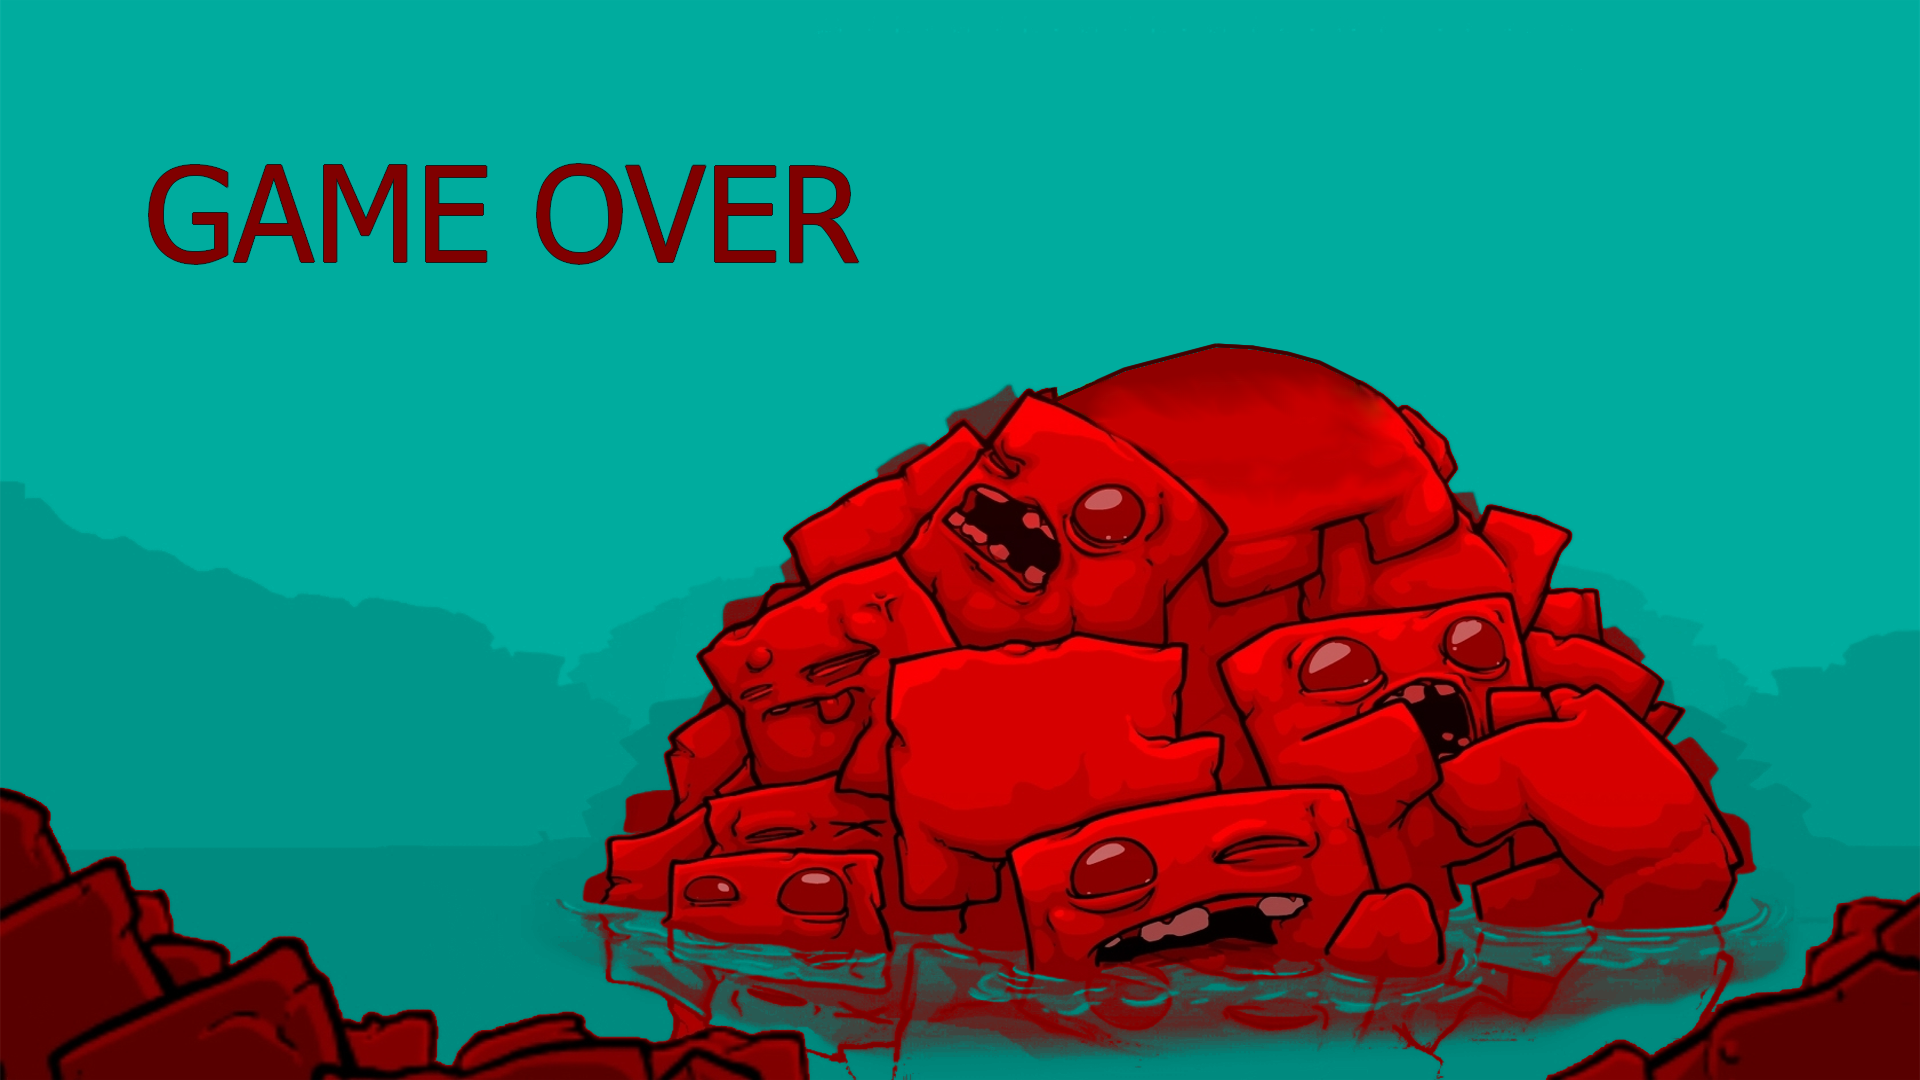
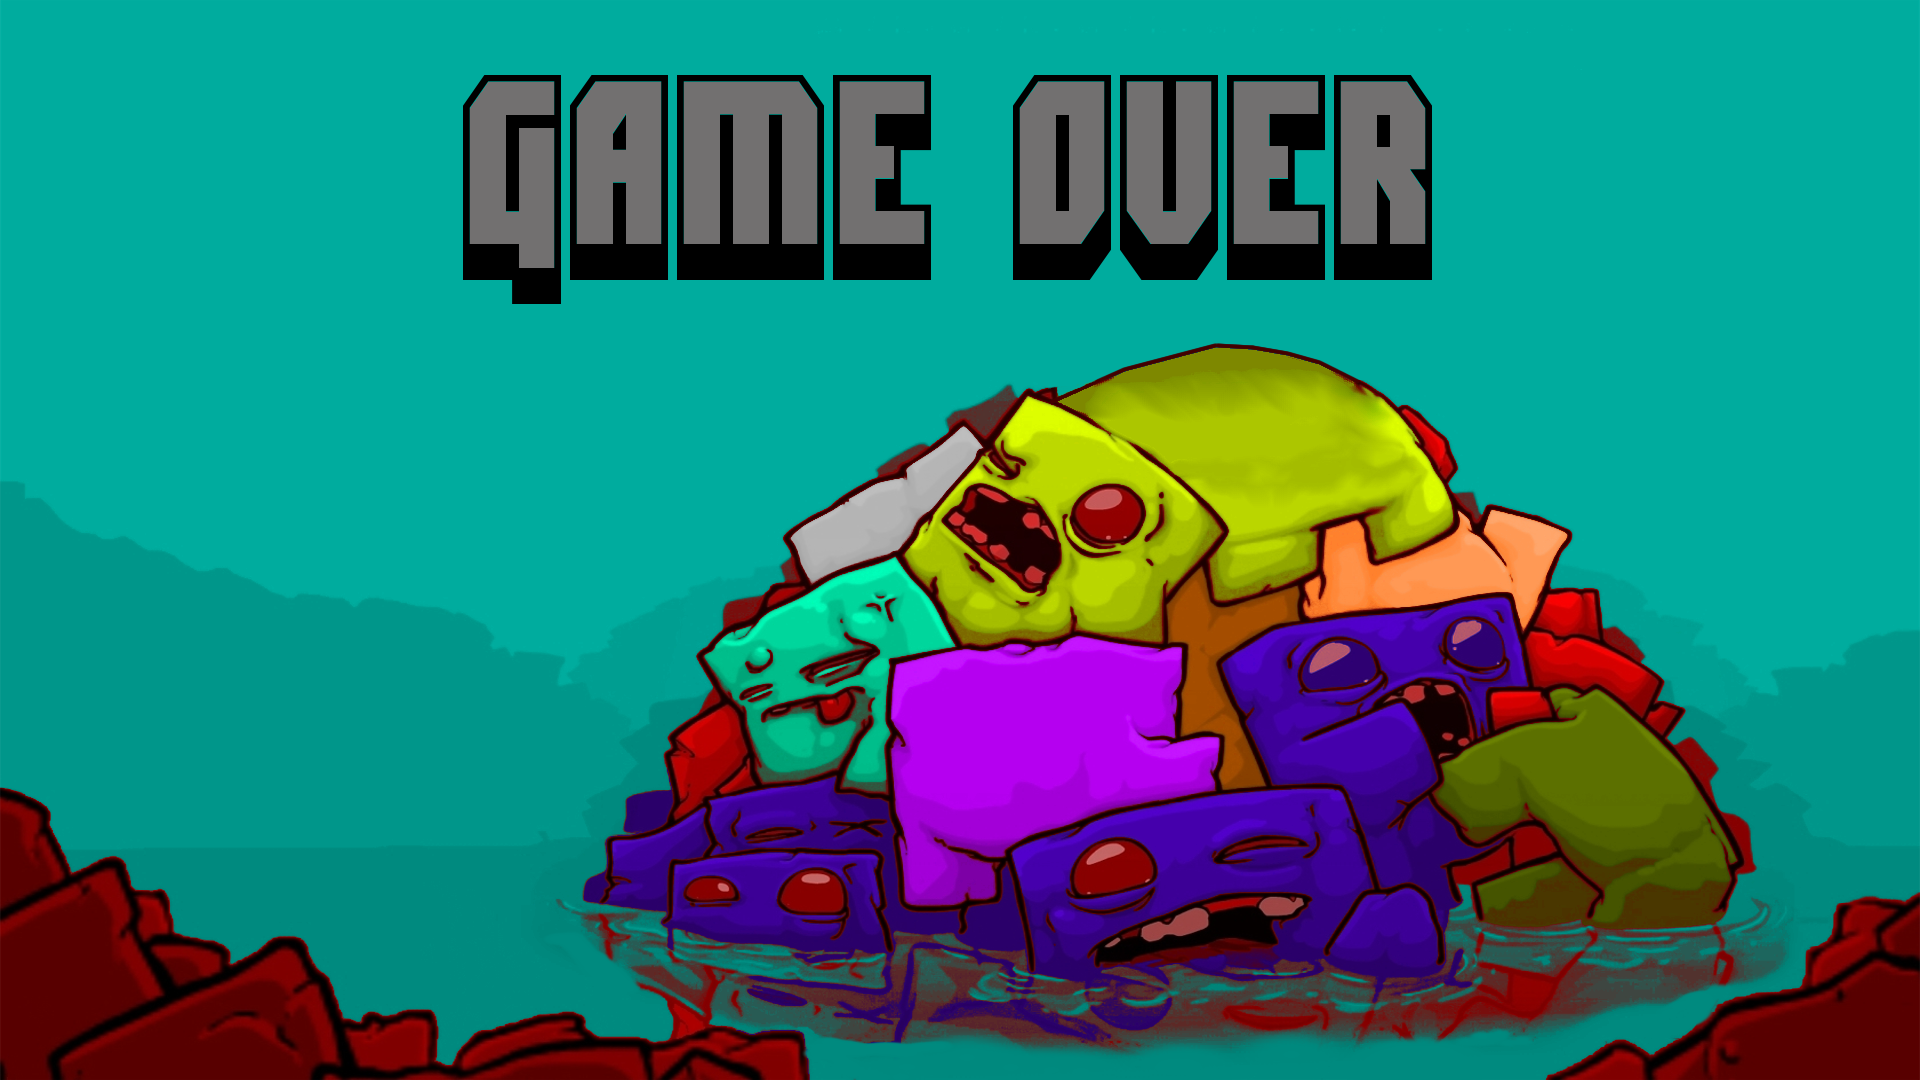
Modification game over image

diff --git a/src/window.cpp b/src/window.cpp
@@ -35,7 +35,7 @@ void WindowRunner::create()
     this->state = SPLASH;
 
     this->splash_screen.setTextPosition(Vector2f((this->getSize().x - this->splash_screen.getTextWidth()) / 2, (this->getSize().y - this->splash_screen.getTextHeight()) / 1.2));
-    this->game_over_screen.setTextPosition(Vector2f(0, 0));
+    this->game_over_screen.setTextPosition(Vector2f((this->getSize().x / 15), (this->getSize().y / 2)));
 
     this->window->setFramerateLimit(FRAMERATE);
     this->window->setVerticalSyncEnabled(false);

diff --git a/src/const.h b/src/const.h
@@ -37,7 +37,7 @@
 #define FIRE_ANIM "img/fire.png"
 #define SAW_IMG "img/saw.png"
 #define DEAD_ANIM "img/smoke.png"
-#define GAME_OVER_BG "img/game_over_bg.png"
+#define GAME_OVER_BG "img/gameover.png"
 #define LAVA_IMG "img/lava.png"
 //GAME
 #define GROUND 100
